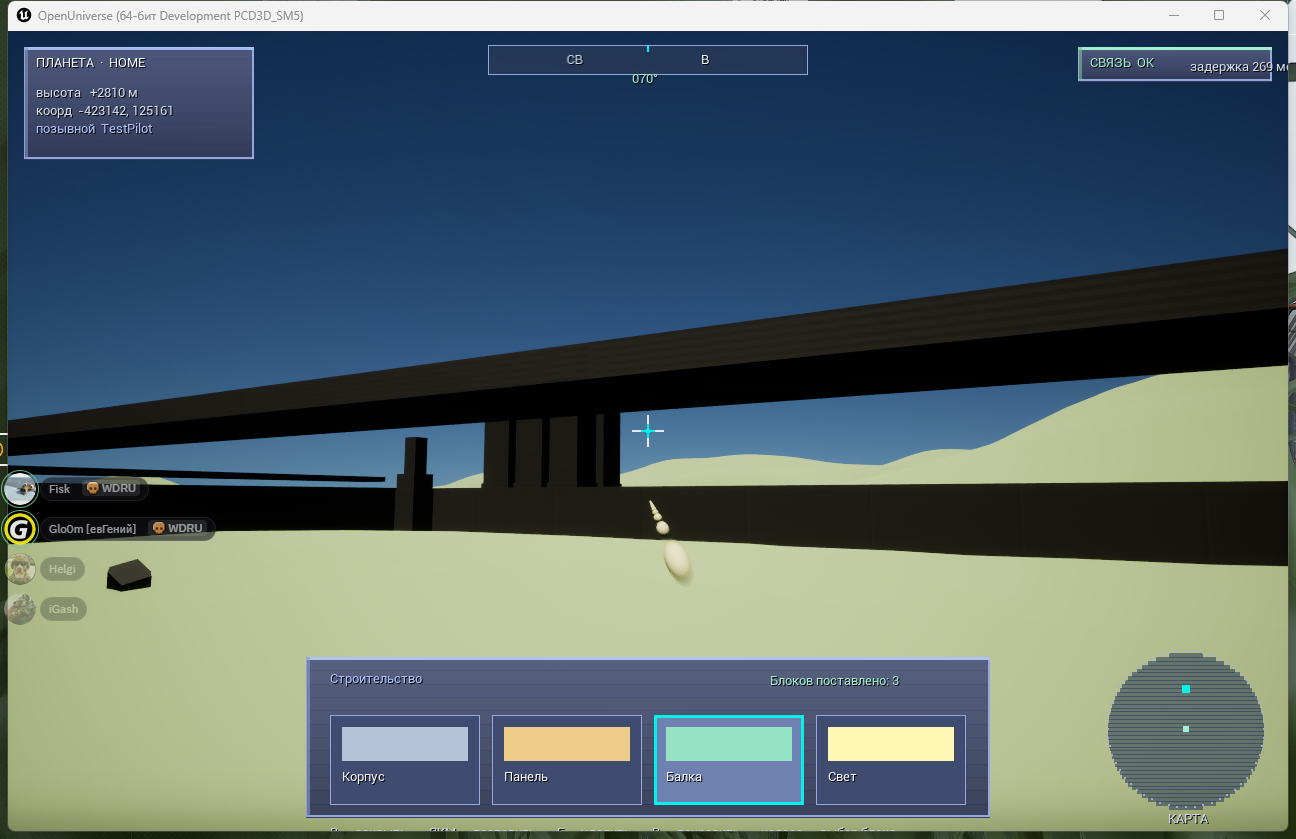
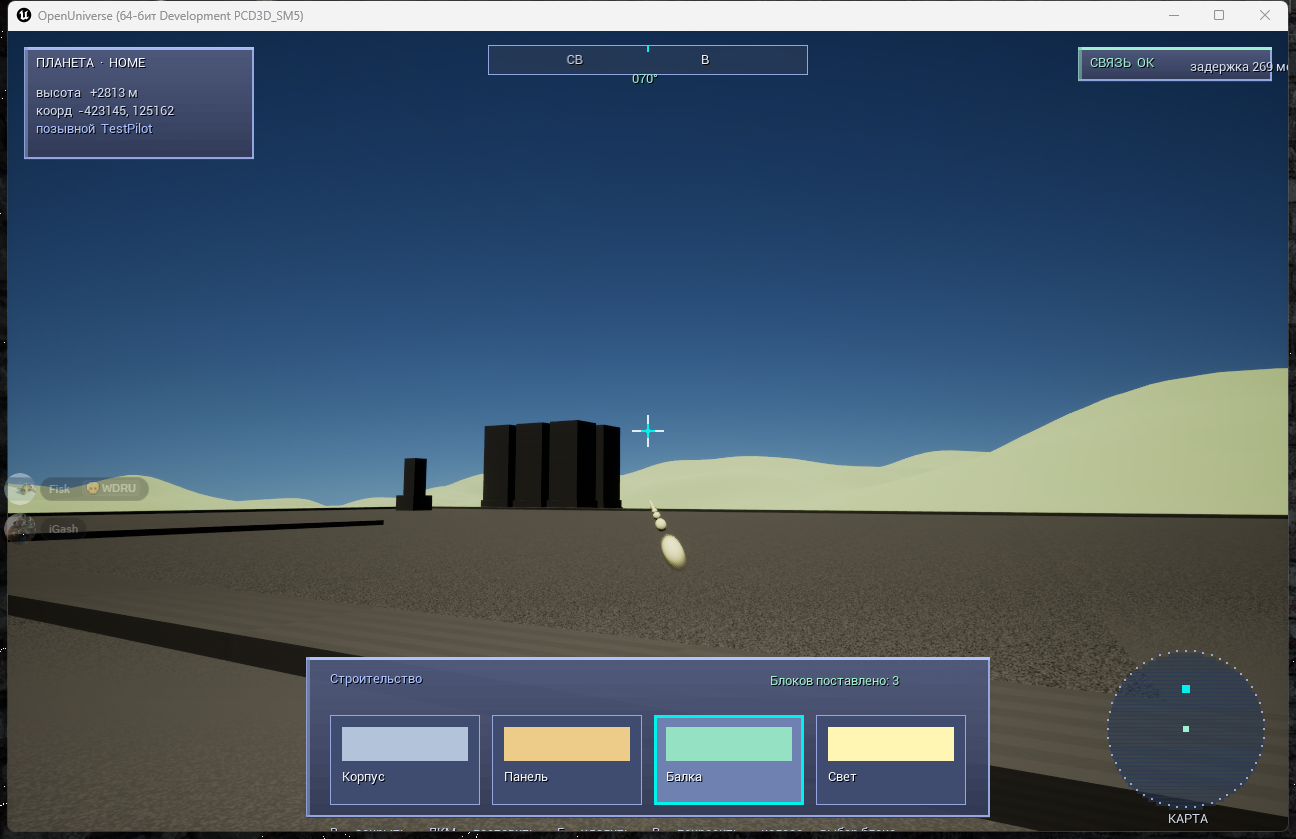
fix(movement): sweep ignores initial overlaps, deck-aware grounding; v0.56.0 hotfix

diff --git a/report.html b/report.html
@@ -6,7 +6,7 @@
   <title data-i18n="rep.title">Open Universe — development report</title>
   <meta name="description" content="Open Universe development report: what is done, engine screenshots, metrics and test results." />
   <link rel="icon" href="assets/blackhole.svg" type="image/svg+xml" />
-  <link rel="stylesheet" href="styles.css?v=0.55.0" />
+  <link rel="stylesheet" href="styles.css?v=0.56.0" />
   <style>
     .report { max-width: 1100px; margin: 0 auto; padding: 0 24px 80px; }
     .report h1 { font-size: clamp(2rem, 5vw, 3rem); margin: 40px 0 8px; letter-spacing: -1px;
@@ -51,13 +51,13 @@
 
   <main class="report">
     <h1 data-i18n="rep.h1">Development report</h1>
-    <p style="font-size:1.05rem" data-i18n="rep.intro">What already works, with evidence: engine screenshots, metrics and test results. Version <b id="ver">0.55.0</b>.</p>
+    <p style="font-size:1.05rem" data-i18n="rep.intro">What already works, with evidence: engine screenshots, metrics and test results. Version <b id="ver">0.56.0</b>.</p>
 
     <div class="meta">
       <div><b id="m-tests">223</b><span data-i18n="rep.m.tests">core tests (Rust)</span></div>
       <div><b id="m-crates">13</b><span data-i18n="rep.m.crates">modules (crates)</span></div>
       <div><b id="m-progress">73%</b><span data-i18n="rep.m.progress">plan complete</span></div>
-      <div><b id="m-version">v0.55.0</b><span data-i18n="rep.m.version">latest release</span></div>
+      <div><b id="m-version">v0.56.0</b><span data-i18n="rep.m.version">latest release</span></div>
     </div>
 
     <!-- ================= 1. What is done ================= -->
@@ -315,7 +315,7 @@ $ cargo run -p ou-render --release --bin ou-netrender -- 127.0.0.1:7777 8 4
     </div>
   </footer>
 
-  <script src="i18n.js?v=0.55.0"></script>
+  <script src="i18n.js?v=0.56.0"></script>
   <script>
     (function () {
       "use strict";

diff --git a/index.html b/index.html
@@ -6,7 +6,7 @@
   <title data-i18n="page.title">Open Universe — an open-space MMO sandbox</title>
   <meta name="description" content="Open Universe — one living universe, voxel building, a player-driven economy and programmable constructions. A development plan with live progress." />
   <link rel="icon" href="assets/blackhole.svg" type="image/svg+xml" />
-  <link rel="stylesheet" href="styles.css?v=0.55.0" />
+  <link rel="stylesheet" href="styles.css?v=0.56.0" />
 </head>
 <body>
 
@@ -296,7 +296,7 @@ VWAP = 26 · Trades in the log: 2</code></pre>
       <div class="download-grid">
         <div class="panel dl-card">
           <div class="dl-head">
-            <span class="dl-ver" id="dl-version">v0.55.0</span>
+            <span class="dl-ver" id="dl-version">v0.56.0</span>
             <span class="hero-badge" style="font-size:.72rem"><span class="dot"></span> <span data-i18n="dl.latestBadge">Latest version</span></span>
           </div>
           <h3 data-i18n="dl.cardTitle">Open Universe launcher</h3>
@@ -428,8 +428,8 @@ powershell -File tools/test-client.ps1</code></pre>
     <span aria-hidden="true">❤</span> <span data-i18n="sponsor.fab">Become a sponsor</span>
   </a>
 
-  <script src="i18n.js?v=0.55.0"></script>
-  <script src="data.js?v=0.55.0"></script>
-  <script src="app.js?v=0.55.0"></script>
+  <script src="i18n.js?v=0.56.0"></script>
+  <script src="data.js?v=0.56.0"></script>
+  <script src="app.js?v=0.56.0"></script>
 </body>
 </html>

diff --git a/i18n.js b/i18n.js
@@ -284,7 +284,7 @@ window.OU_I18N = {
     "rep.title": "Open Universe — отчёт о разработке",
     "rep.nav.home": "← На главную",
     "rep.h1": "Отчёт о разработке",
-    "rep.intro": "Что уже работает, с доказательствами: скриншотами движка, метриками и результатами тестов. Версия <b>0.55.0</b>.",
+    "rep.intro": "Что уже работает, с доказательствами: скриншотами движка, метриками и результатами тестов. Версия <b>0.56.0</b>.",
     "rep.m.tests": "тестов ядра (Rust)",
     "rep.m.crates": "модулей (крейтов)",
     "rep.m.progress": "план выполнен",
@@ -678,7 +678,7 @@ window.OU_I18N = {
     "rep.title": "Open Universe — development report",
     "rep.nav.home": "← Back to home",
     "rep.h1": "Development report",
-    "rep.intro": "What already works, with evidence: engine screenshots, metrics and test results. Version <b>0.55.0</b>.",
+    "rep.intro": "What already works, with evidence: engine screenshots, metrics and test results. Version <b>0.56.0</b>.",
     "rep.m.tests": "core tests (Rust)",
     "rep.m.crates": "modules (crates)",
     "rep.m.progress": "plan complete",

diff --git a/client/Source/OpenUniverse/OUCharacterPawn.cpp b/client/Source/OpenUniverse/OUCharacterPawn.cpp
@@ -1013,10 +1013,14 @@ void AOUCharacterPawn::Tick(float DeltaSeconds)
 	{
 		FHitResult Hit;
 		FCollisionQueryParams Params(SCENE_QUERY_STAT(OUCharMove), false, this);
+		// ВАЖНО: не считаем «начальные перекрытия» стеной. Если капсула стоит на
+		// площадке, свип каждый кадр видел бы перекрытие в момент 0 и обнулял бы
+		// движение — персонаж «залипал». Нам нужны только реальные столкновения.
+		Params.bFindInitialOverlaps = false;
 		const bool bHit = World->SweepSingleByChannel(
 			Hit, Pos, NewPos, FQuat::Identity, ECC_Pawn,
 			FCollisionShape::MakeCapsule(CapsuleRadius, CapsuleHalfHeight), Params);
-		if (bHit)
+		if (bHit && Hit.Time > KINDA_SMALL_NUMBER)
 		{
 			NewPos = Pos + (NewPos - Pos) * Hit.Time;
 			// Гасим скорость в направлении нормали стены (скользим вдоль неё).
@@ -1034,9 +1038,17 @@ void AOUCharacterPawn::Tick(float DeltaSeconds)
 		}
 	}
 
-	// Привязка к рельефу: не проваливаемся под поверхность.
+	// Привязка к рельефу: не проваливаемся под поверхность. Если игрок — на
+	// площадке базы, стоим на её ВЕРХУ, а не на аналитической земле под ней.
 	const FVector Dir = NewPos.GetSafeNormal();
-	const double Surface = SurfaceRadius(Dir) + CapsuleHalfHeight;
+	double Surface = static_cast<double>(SurfaceRadius(Dir)) + CapsuleHalfHeight;
+	{
+		const double Deck = AOUSurfaceBase::DeckSurfaceRadiusAt(Dir, 9000.f);
+		if (Deck > 0.0)
+		{
+			Surface = FMath::Max(Surface, Deck + CapsuleHalfHeight);
+		}
+	}
 
 	// Диагностика `-OUBaseOverview`: держим камеру над базой (обзор сверху),
 	// иначе гравитация прижимает её к земле.

diff --git a/client/Source/OpenUniverse/OUSurfaceBase.cpp b/client/Source/OpenUniverse/OUSurfaceBase.cpp
@@ -3,6 +3,7 @@
 #include "OUSurfaceBase.h"
 #include "OUInterop.h"
 #include "OUTerrain.h"
+#include "OUVoxelPlanet.h"
 #include "Components/StaticMeshComponent.h"
 #include "Engine/StaticMesh.h"
 #include "Materials/MaterialInterface.h"
@@ -123,6 +124,28 @@ float AOUSurfaceBase::DeckOffsetCm(const FVector& CenterUE, float InPadRadius)
 		}
 	}
 	return static_cast<float>(GMax) + 40.f;   // верх плиты = макс. земля + 40 см
+}
+
+double AOUSurfaceBase::DeckSurfaceRadiusAt(const FVector& DirUE, float InPadRadius)
+{
+	// Центр базы — в точке появления (её ставит GameMode тем же HomeSpawn).
+	const FVector BaseCenter = AOUVoxelPlanet::HomeSpawn(3.0f);
+	const FVector UpB = BaseCenter.GetSafeNormal();
+	const FVector D = DirUE.GetSafeNormal();
+	if (UpB.IsNearlyZero() || D.IsNearlyZero())
+	{
+		return 0.0;
+	}
+	// Внутри площадки? Сравниваем угол с угловым радиусом поля.
+	const double R = 500000.0 * OUInterop::ServerUnitToCm;   // радиус планеты, см
+	const double CosPad = 1.0 - (static_cast<double>(InPadRadius) * InPadRadius) / (2.0 * R * R);
+	if (FVector::DotProduct(D, UpB) < CosPad)
+	{
+		return 0.0;
+	}
+	// Верх поля — плоскость на высоте центра базы плюс подъём площадки.
+	const double DeckUp = DeckOffsetCm(BaseCenter, InPadRadius);
+	return static_cast<double>(BaseCenter.Size()) + DeckUp;
 }
 
 void AOUSurfaceBase::AddBlock(const FVector& Offset, const FVector& Size, const FLinearColor& Color, const FString& Name)

diff --git a/client/Source/OpenUniverse/OUSurfaceBase.h b/client/Source/OpenUniverse/OUSurfaceBase.h
@@ -48,6 +48,14 @@ public:
 	static float DeckOffsetCm(const FVector& CenterUE, float InPadRadius);
 
 	/**
+	 * Ближайшая ТВЁРДАЯ поверхность под точкой, если она внутри площадки базы:
+	 * возвращает радиус (от центра планеты, см UE) верха поля или борта, иначе 0.
+	 *
+	 * Нужно персонажу: он должен СТОЯТЬ на поле базы, а не внутри него.
+	 */
+	static double DeckSurfaceRadiusAt(const FVector& DirUE, float InPadRadius);
+
+	/**
 	 * Полуразмер посадочного поля, см (по умолчанию ~90 м).
 	 *
 	 * Всё остальное здание строится относительно него, поэтому увеличение

diff --git a/CHANGELOG.md b/CHANGELOG.md
@@ -3,6 +3,20 @@
 Все значимые изменения проекта. Формат близок к [Keep a Changelog](https://keepachangelog.com/ru/1.1.0/),
 версии — [SemVer](https://semver.org/lang/ru/).
 
+## [0.56.0] — 2026-11-13
+
+Хотфикс: персонаж снова свободно ходит по планете.
+
+### Исправлено
+- **Персонаж снова может передвигаться.** После включения твёрдых построек
+  (0.55.0) движение замирало: свип капсулы считал «начальные перекрытия» стеной
+  (капсула стоит на площадке — реальном меше), и шаг каждый кадр обнулялся.
+  Теперь свип игнорирует начальные перекрытия и срабатывает только на реальное
+  столкновение.
+- **Персонаж стоит на площадке базы, а не внутри неё**: привязка к земле
+  учитывает верх посадочного поля (поле остаётся твёрдым, сквозь здания
+  по-прежнему не пройти).
+
 ## [0.55.0] — 2026-11-13
 
 Постройки стали твёрдыми, а у базы появились настоящие поверхности.
